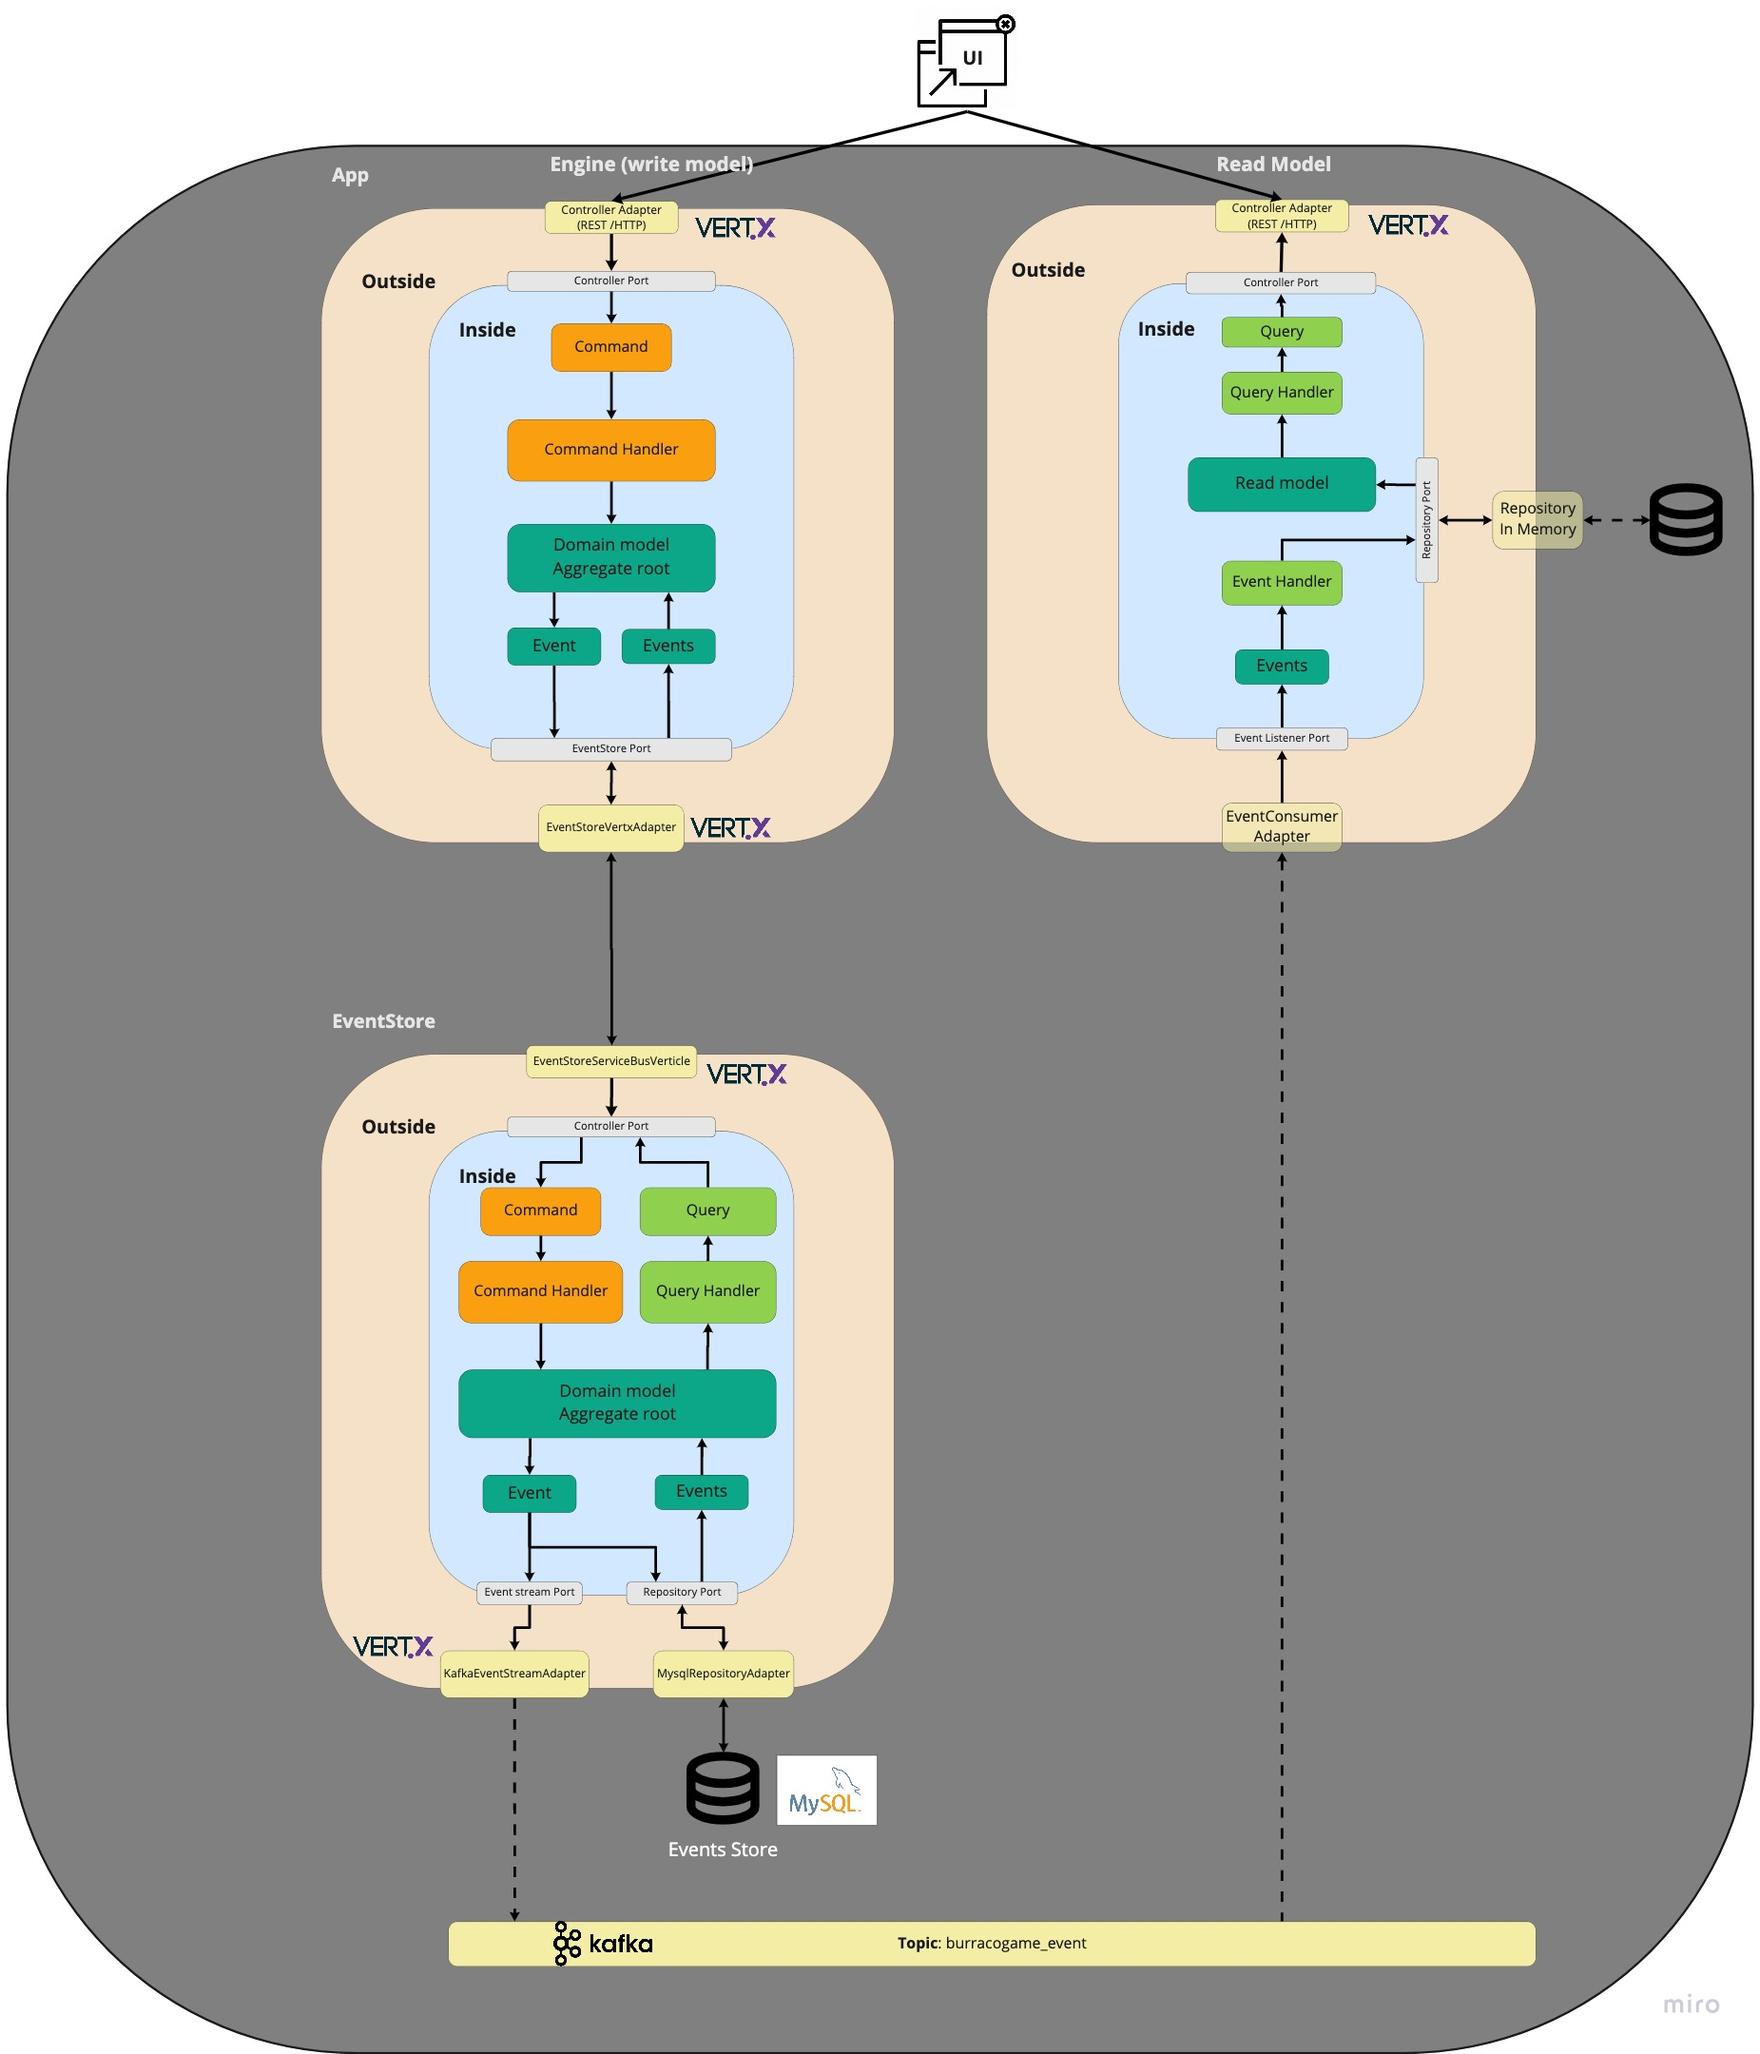
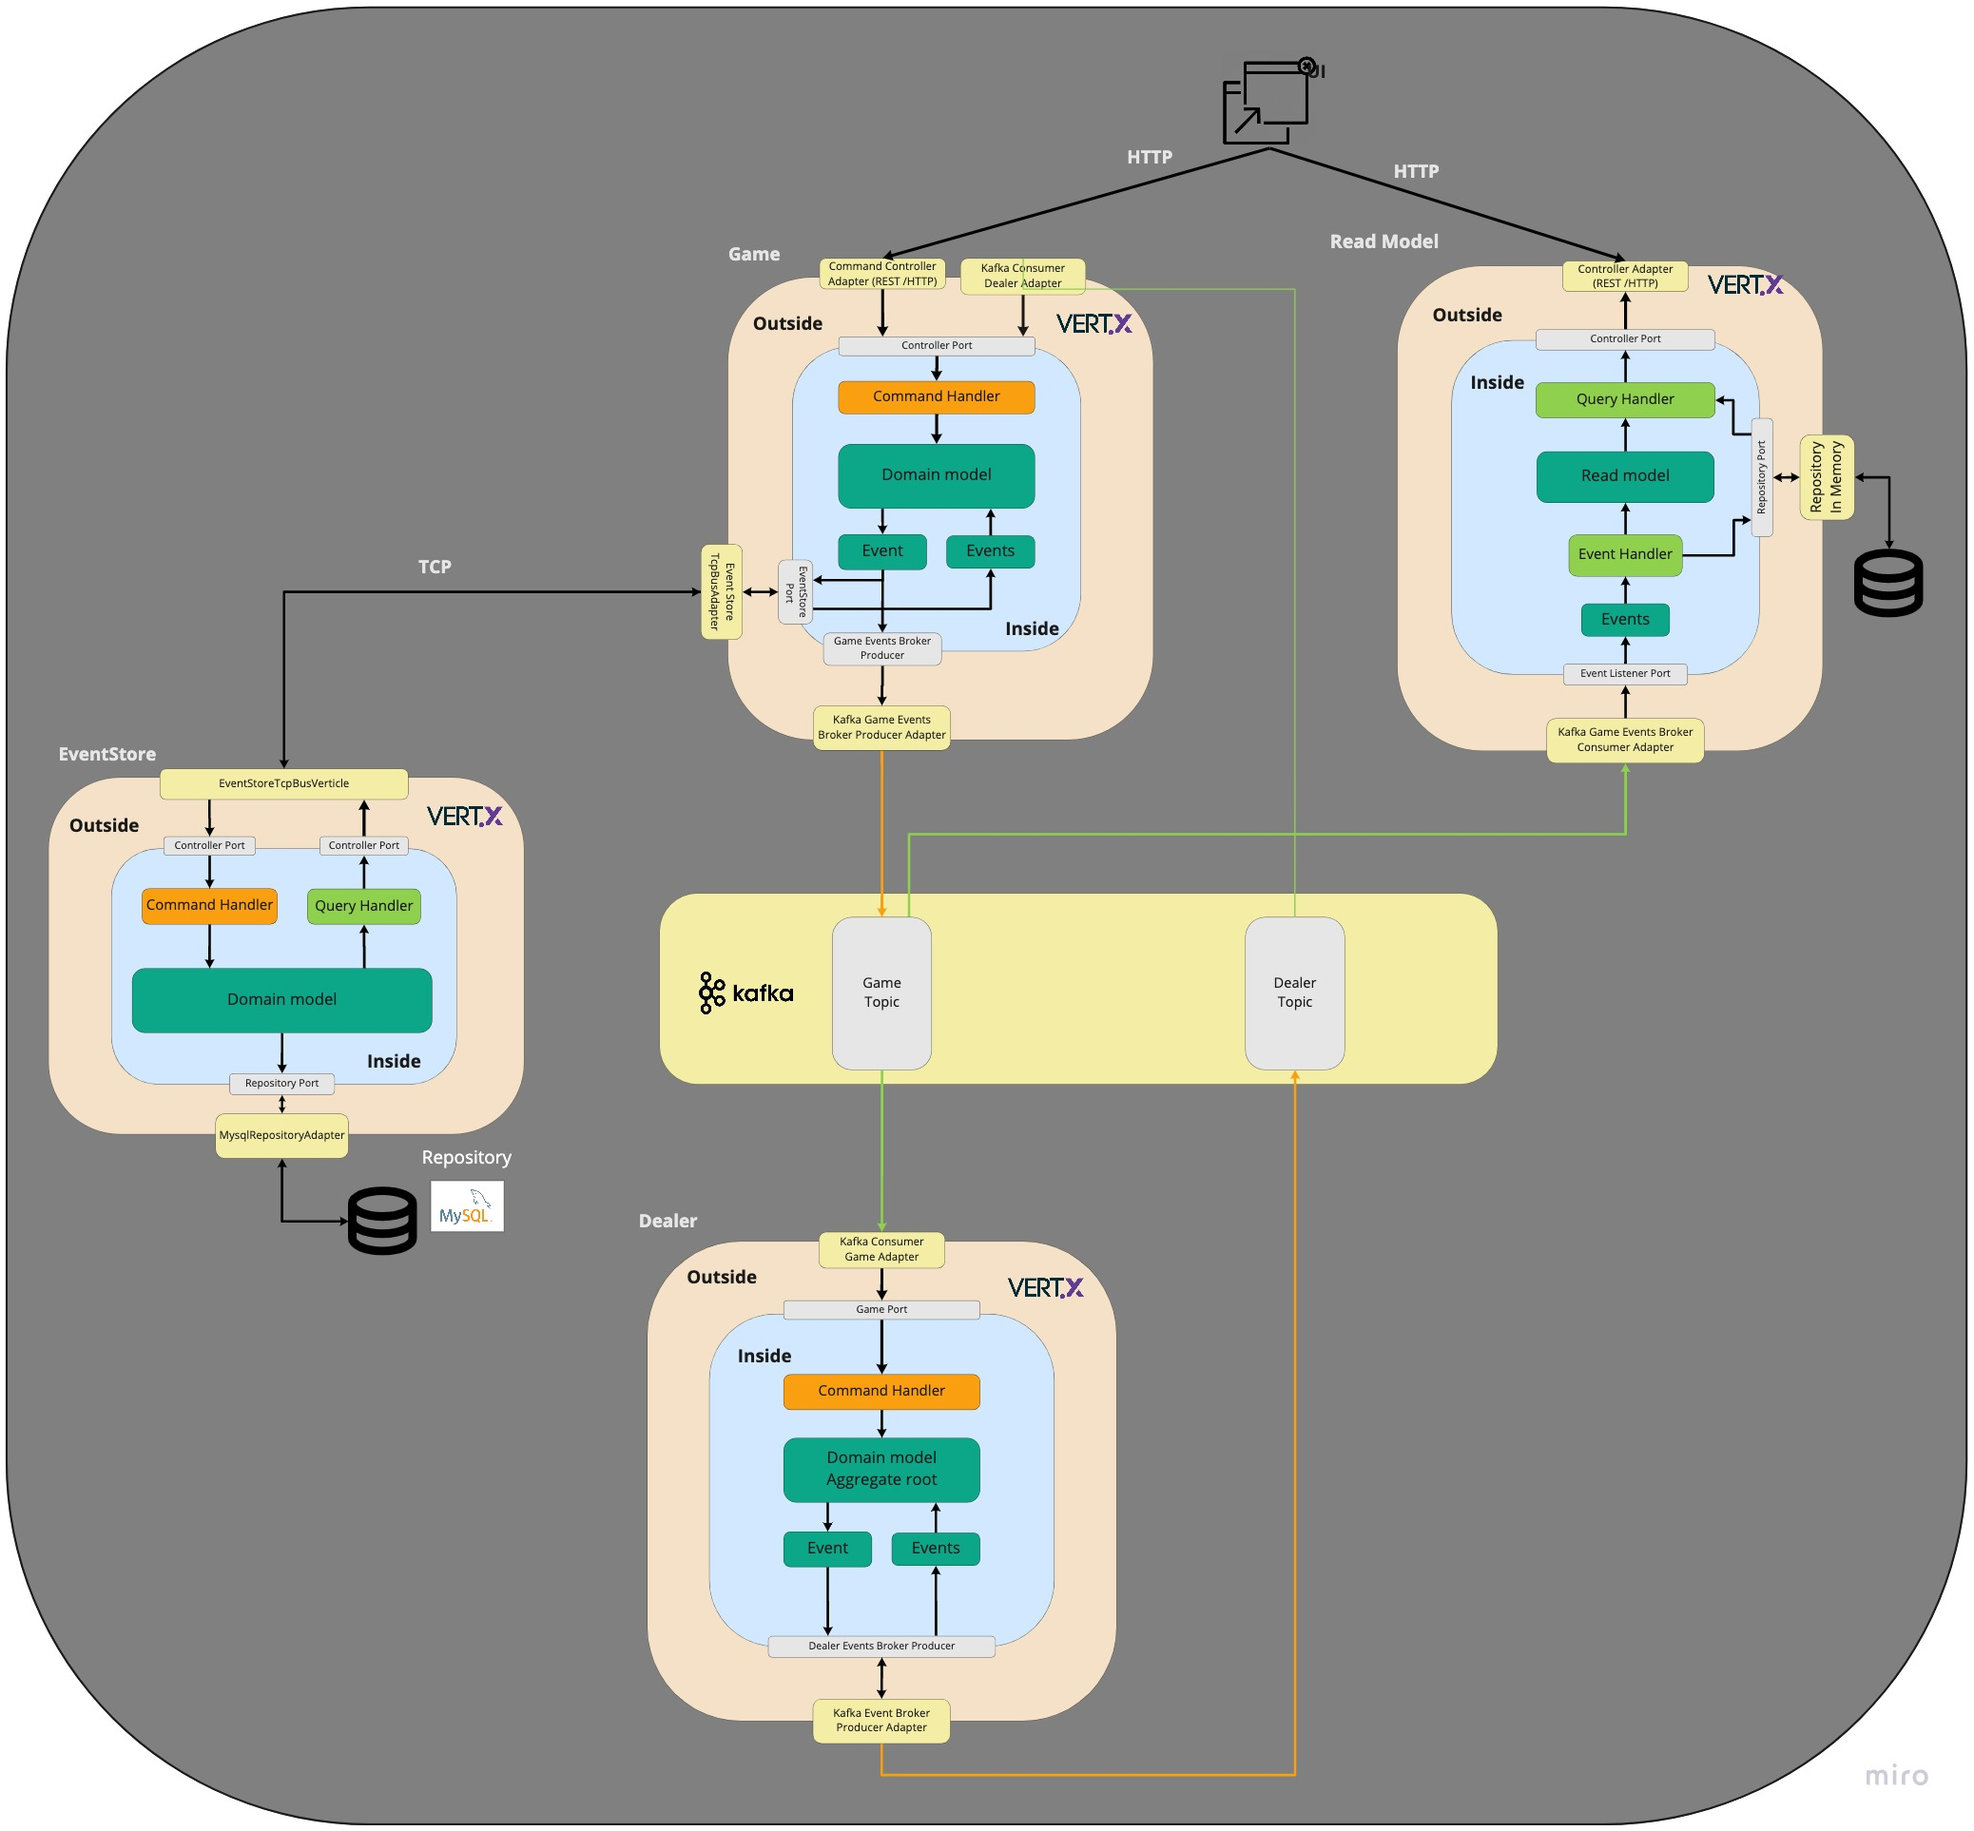
readme

diff --git a/README.md b/README.md
@@ -1,41 +1,42 @@
-# Burraco Card game Vert.x version...
-
-The scope of this project is trying to introduce Vert.x in an existing DDD project based on Hexagonal architecture without change the domain mode, the commands and the ports.
-Vert.x has been introduced creating only new adapters that implement the ports already defined by the project.
-More details regarding the original projects are on [https://github.com/abaddon/burraco/](https://github.com/abaddon/burraco/)
-
-*Vert.x components used:*
-- cluster
-- discovery service
-- service proxy
-- Web
-- Kafka Client
+# Burraco Card game Vert.x version
   
 ## Schema
 ![architecture schema](./documents/burracoProjectSchema.jpg)
 
 ### Services
-##### Engine
+##### Game
 It contains the Burraco game logic. An aggregate called BurracoGame contains all the game's rules. 
 The REST interface executes the commands on the aggregate.
 
-*Features*
+*Adapters*
 - Vertx HTTP REST API interface
+- Vertx TCP Eventbus Bridge
+- Vertx Kafka consumer
+- Vertx Kafka Producer
 
 ##### EventStore
 It's the repository used to store all the domain events generated by the aggregates. Each event received is persisted on a Mysql DB.
-The events store receive the event publishing an RPC interface shared throw the Vert.x Eventbus 
 
-*Features*
-- Vertx EventBus RPC interface, used to 
-- JDBC Mysql client
-- Vertx Kafka client
+*Adapters*
+- Vertx TCP Eventbus Bridge
+- Vertx Mysql
+
+##### Dealer
+It contains the Dealer logic. A service stateless service in charge to distribute the cards and setup the game.
+The cards are published into a dedicated topic
+
+*Adapters*
+- Vertx Kafka consumer
+- Vertx Kafka Producer
+
 
 ##### ReadModel (TODO)
 It will contain all the projections fed from the events generated by the aggregates. 
 
-*Features*
-
+*Adapters*
+- Vertx HTTP REST API interface
+- Vertx Kafka consumer
+- Vertx Mysql
 
 ### Execution with Docker
 To execute all the services at the same time:
